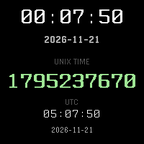
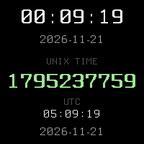
Use Terminus for dates and labels too

diff --git a/src/c/main.c b/src/c/main.c
@@ -18,7 +18,7 @@ static char s_local_time_buf[12], s_local_date_buf[16];
 static char s_epoch_buf[16];
 static char s_utc_time_buf[12], s_utc_date_buf[16];
 
-static GFont s_font_local, s_font_epoch, s_font_utc;
+static GFont s_font_local, s_font_epoch, s_font_utc, s_font_date, s_font_label;
 
 // Strip the leading zero "12h" strftime gives ("01:23" -> "1:23").
 static void strip_hour_zero(char *buf) {
@@ -76,27 +76,25 @@ static void window_load(Window *window) {
   s_font_local = fonts_load_custom_font(resource_get_handle(RESOURCE_ID_FONT_TERM_36));
   s_font_epoch = fonts_load_custom_font(resource_get_handle(RESOURCE_ID_FONT_TERM_36_BOLD));
   s_font_utc = fonts_load_custom_font(resource_get_handle(RESOURCE_ID_FONT_TERM_18));
+  s_font_date = fonts_load_custom_font(resource_get_handle(RESOURCE_ID_FONT_TERM_18));
+  s_font_label = fonts_load_custom_font(resource_get_handle(RESOURCE_ID_FONT_TERM_14));
 
   s_local_time = text_layer_new(GRect(0, LOCAL_TIME_Y, w, 48),
                                 s_font_local, GColorWhite);
   s_local_date = text_layer_new(GRect(0, LOCAL_DATE_Y, w, 22),
-                                fonts_get_system_font(FONT_KEY_GOTHIC_18_BOLD),
-                                GColorLightGray);
+                                s_font_date, GColorLightGray);
   s_epoch_label = text_layer_new(GRect(0, EPOCH_LABEL_Y, w, 16),
-                                 fonts_get_system_font(FONT_KEY_GOTHIC_14),
-                                 GColorDarkGray);
+                                 s_font_label, GColorDarkGray);
   text_layer_set_text(s_epoch_label, "UNIX TIME");
   s_epoch = text_layer_new(GRect(0, EPOCH_Y, w, 40),
                            s_font_epoch, GColorBrightGreen);
   s_utc_label = text_layer_new(GRect(0, UTC_LABEL_Y, w, 16),
-                               fonts_get_system_font(FONT_KEY_GOTHIC_14),
-                               GColorDarkGray);
+                               s_font_label, GColorDarkGray);
   text_layer_set_text(s_utc_label, "UTC");
   s_utc_time = text_layer_new(GRect(0, UTC_TIME_Y, w, 28),
                               s_font_utc, GColorWhite);
   s_utc_date = text_layer_new(GRect(0, UTC_DATE_Y, w, 18),
-                              fonts_get_system_font(FONT_KEY_GOTHIC_14),
-                              GColorLightGray);
+                              s_font_date, GColorLightGray);
 
   update_time();
 }
@@ -112,6 +110,8 @@ static void window_unload(Window *window) {
   fonts_unload_custom_font(s_font_local);
   fonts_unload_custom_font(s_font_epoch);
   fonts_unload_custom_font(s_font_utc);
+  fonts_unload_custom_font(s_font_date);
+  fonts_unload_custom_font(s_font_label);
 }
 
 static void init(void) {
